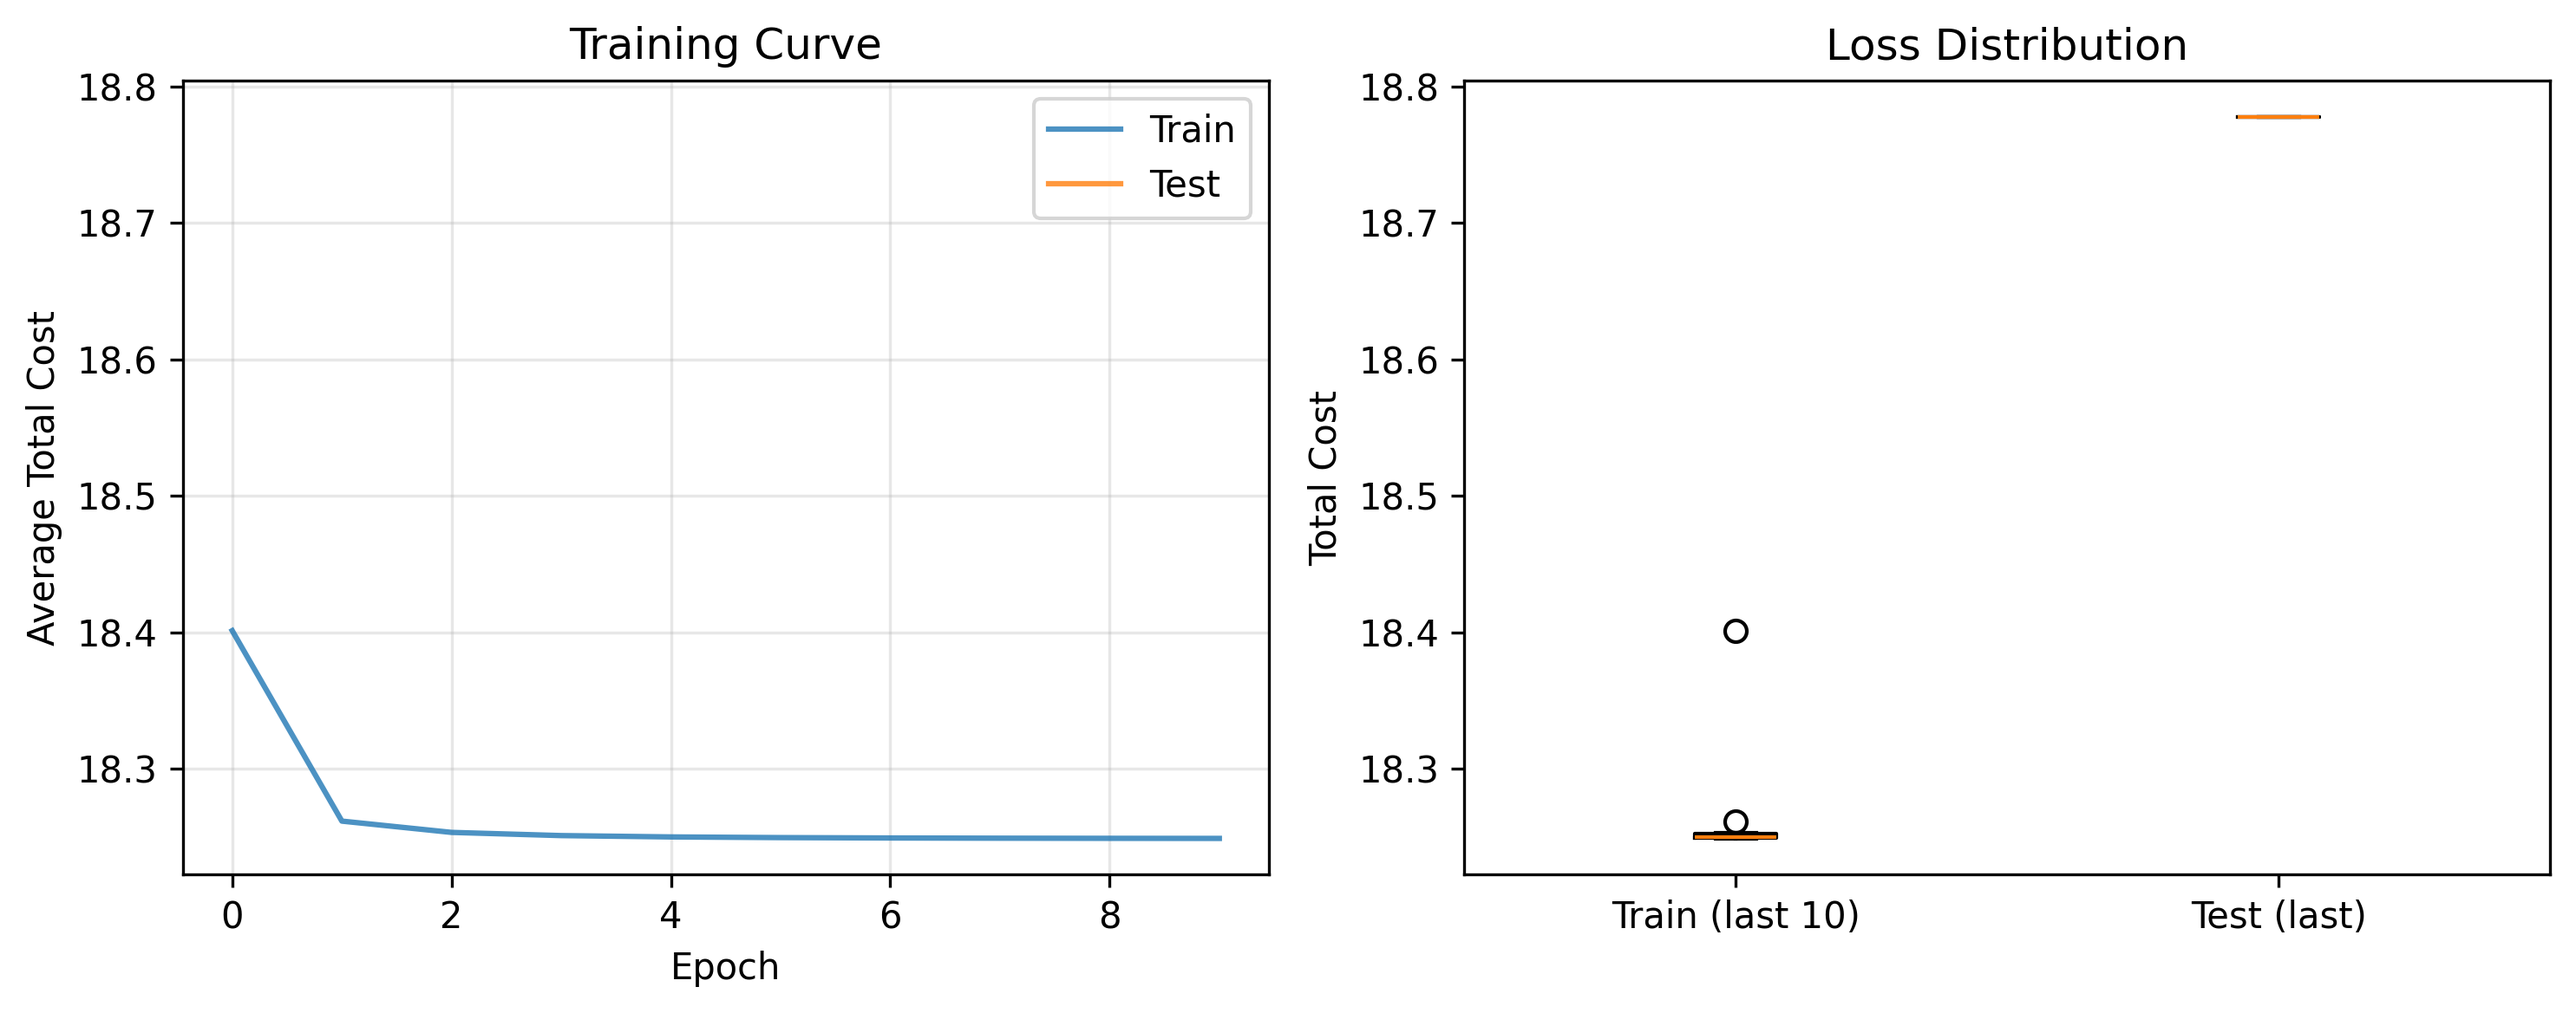
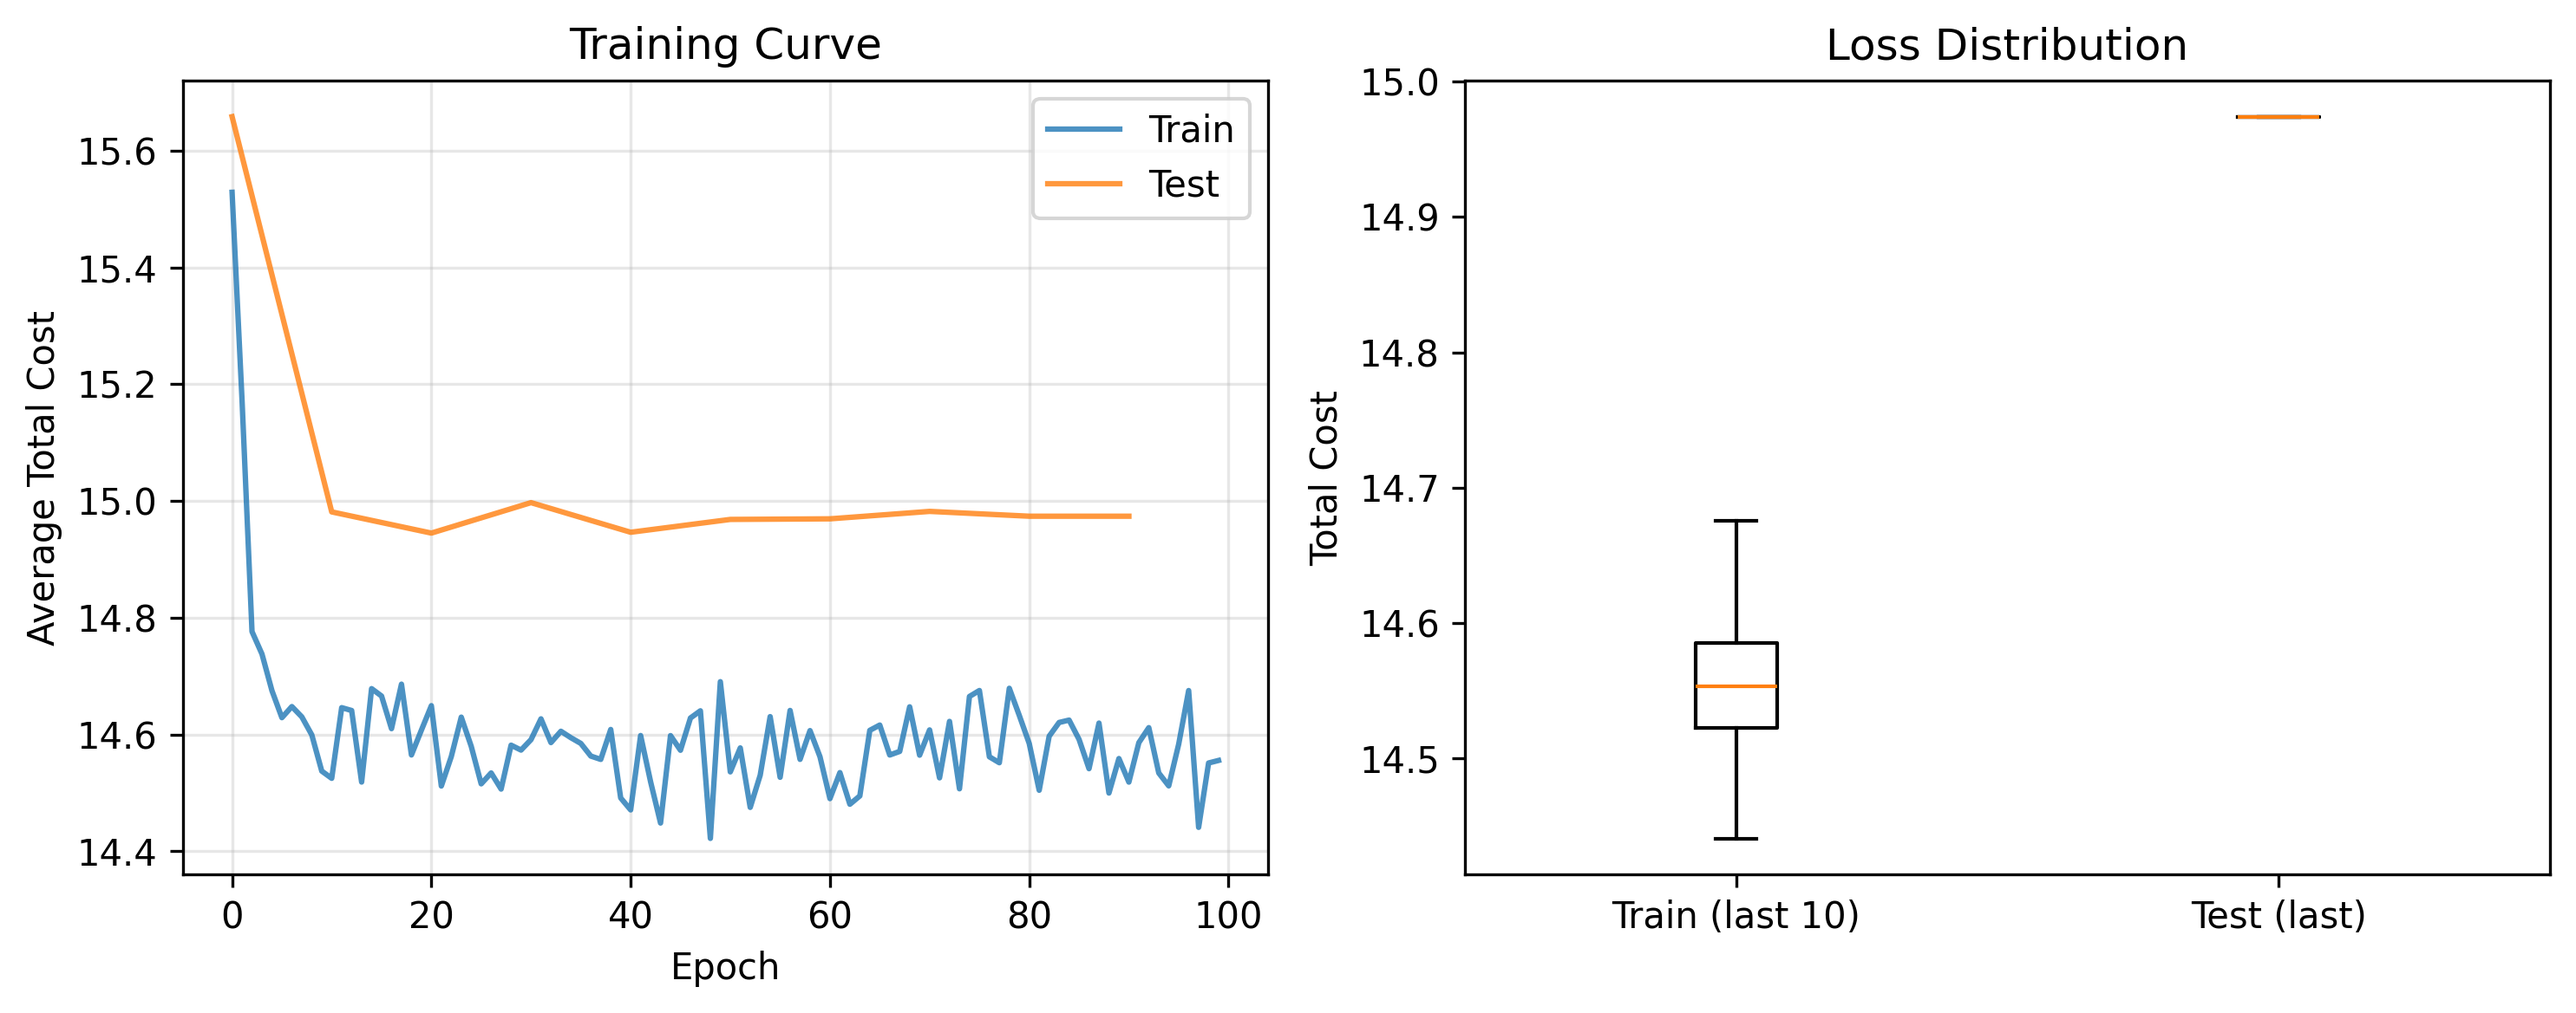
tunable 1q:2q gate ratio for random gate gen

diff --git a/scripts/train_test_eval_debug.py b/scripts/train_test_eval_debug.py
@@ -32,23 +32,31 @@ def build_segment_data_list(rep, segments):
 
 
 class CircuitDataset(Dataset):
-    def __init__(self, n_samples=1000, n_qubits=10, depth=20, gate_density=0.3, seed_base=42):
+    def __init__(self, n_samples=1000, n_qubits=10, depth=20, gate_density=0.3, seed_base=42, two_qubit_bounds=None):
         self.n_samples = n_samples
         self.n_qubits = n_qubits
         self.depth = depth
         self.gate_density = gate_density
         self.seed_base = seed_base
+        self.two_qubit_bounds = two_qubit_bounds
+
         
     def __len__(self):
         return self.n_samples
     
     def __getitem__(self, idx):
         seed = self.seed_base + idx  # Sequential seeds = reproducible!
+        if self.two_qubit_bounds is not None:
+            low, high = self.two_qubit_bounds
+            two_qubit_ratio = np.random.uniform(low, high)
+        else:
+            two_qubit_ratio = 0.5 # default
         qc = generate_random_circuit_custom(
             n_qubits=self.n_qubits,
             depth=self.depth,
             gate_density=self.gate_density,
-            seed=seed
+            seed=seed,
+            two_qubit_ratio=two_qubit_ratio
         )
         rep = CircuitRepresentation(qc)
         segments, seg_ids = segment_circuit(rep.layers, threshold=0.3)
@@ -86,11 +94,11 @@ def main():
     N_SAMPLES_TRAIN = 800
     N_SAMPLES_TEST = 200
     BATCH_SIZE = 4  # Small batches due to variable segment lengths
-    N_EPOCHS = 10
+    N_EPOCHS = 100
     
     # Datasets (different seed bases = no overlap)
-    train_dataset = CircuitDataset(n_samples=N_SAMPLES_TRAIN, seed_base=42)
-    test_dataset = CircuitDataset(n_samples=N_SAMPLES_TEST, seed_base=1000)
+    train_dataset = CircuitDataset(n_samples=N_SAMPLES_TRAIN, seed_base=42, two_qubit_bounds=(0.1, 0.9))
+    test_dataset = CircuitDataset(n_samples=N_SAMPLES_TEST, seed_base=1000, two_qubit_bounds=(0.1, 0.9))
 
     fixed_segment_data_list, fixed_segments, fixed_rep = train_dataset[0]
     
@@ -126,7 +134,7 @@ def main():
     
     # Cost module
     exec_costs_1q = [0.05, 0.15]
-    exec_costs_2q = [0.25, 0.20]
+    exec_costs_2q = [0.15, 0.05]
     idle_costs = [0.15, 0.10]
     move_costs = [0.3, 0.3]
     
@@ -135,7 +143,7 @@ def main():
     # Optimizer
     optimizer = torch.optim.Adam(
         list(evol_model.parameters()) + list(cluster_module.parameters()),
-        lr=1e-3,
+        lr=1e-4,
     )
     
     # Training history

diff --git a/src/circuit_generation.py b/src/circuit_generation.py
@@ -67,7 +67,7 @@ def apply_random_2q_gate(qc: QuantumCircuit, q1: int, q2: int):
         qc.swap(q1, q2)
 
 
-def generate_random_circuit_custom(n_qubits=10, depth=20, gate_density=0.3, seed=None):
+def generate_random_circuit_custom(n_qubits=10, depth=20, gate_density=0.3, seed=None, two_qubit_ratio=0.5,):
     """
     Generate a custom random circuit with controllable sparsity.
     - This creates more realistic circuits where not all qubits are active every layer.
@@ -99,7 +99,7 @@ def generate_random_circuit_custom(n_qubits=10, depth=20, gate_density=0.3, seed
         while i < len(active_qubits):
             if i + 1 < len(active_qubits):
                 q1, q2 = active_qubits[i], active_qubits[i + 1]
-                use_two_qubit = np.random.rand() < 0.5  # ~50% chance
+                use_two_qubit = np.random.rand() < two_qubit_ratio
 
                 if use_two_qubit:
                     apply_random_2q_gate(qc, q1, q2)
